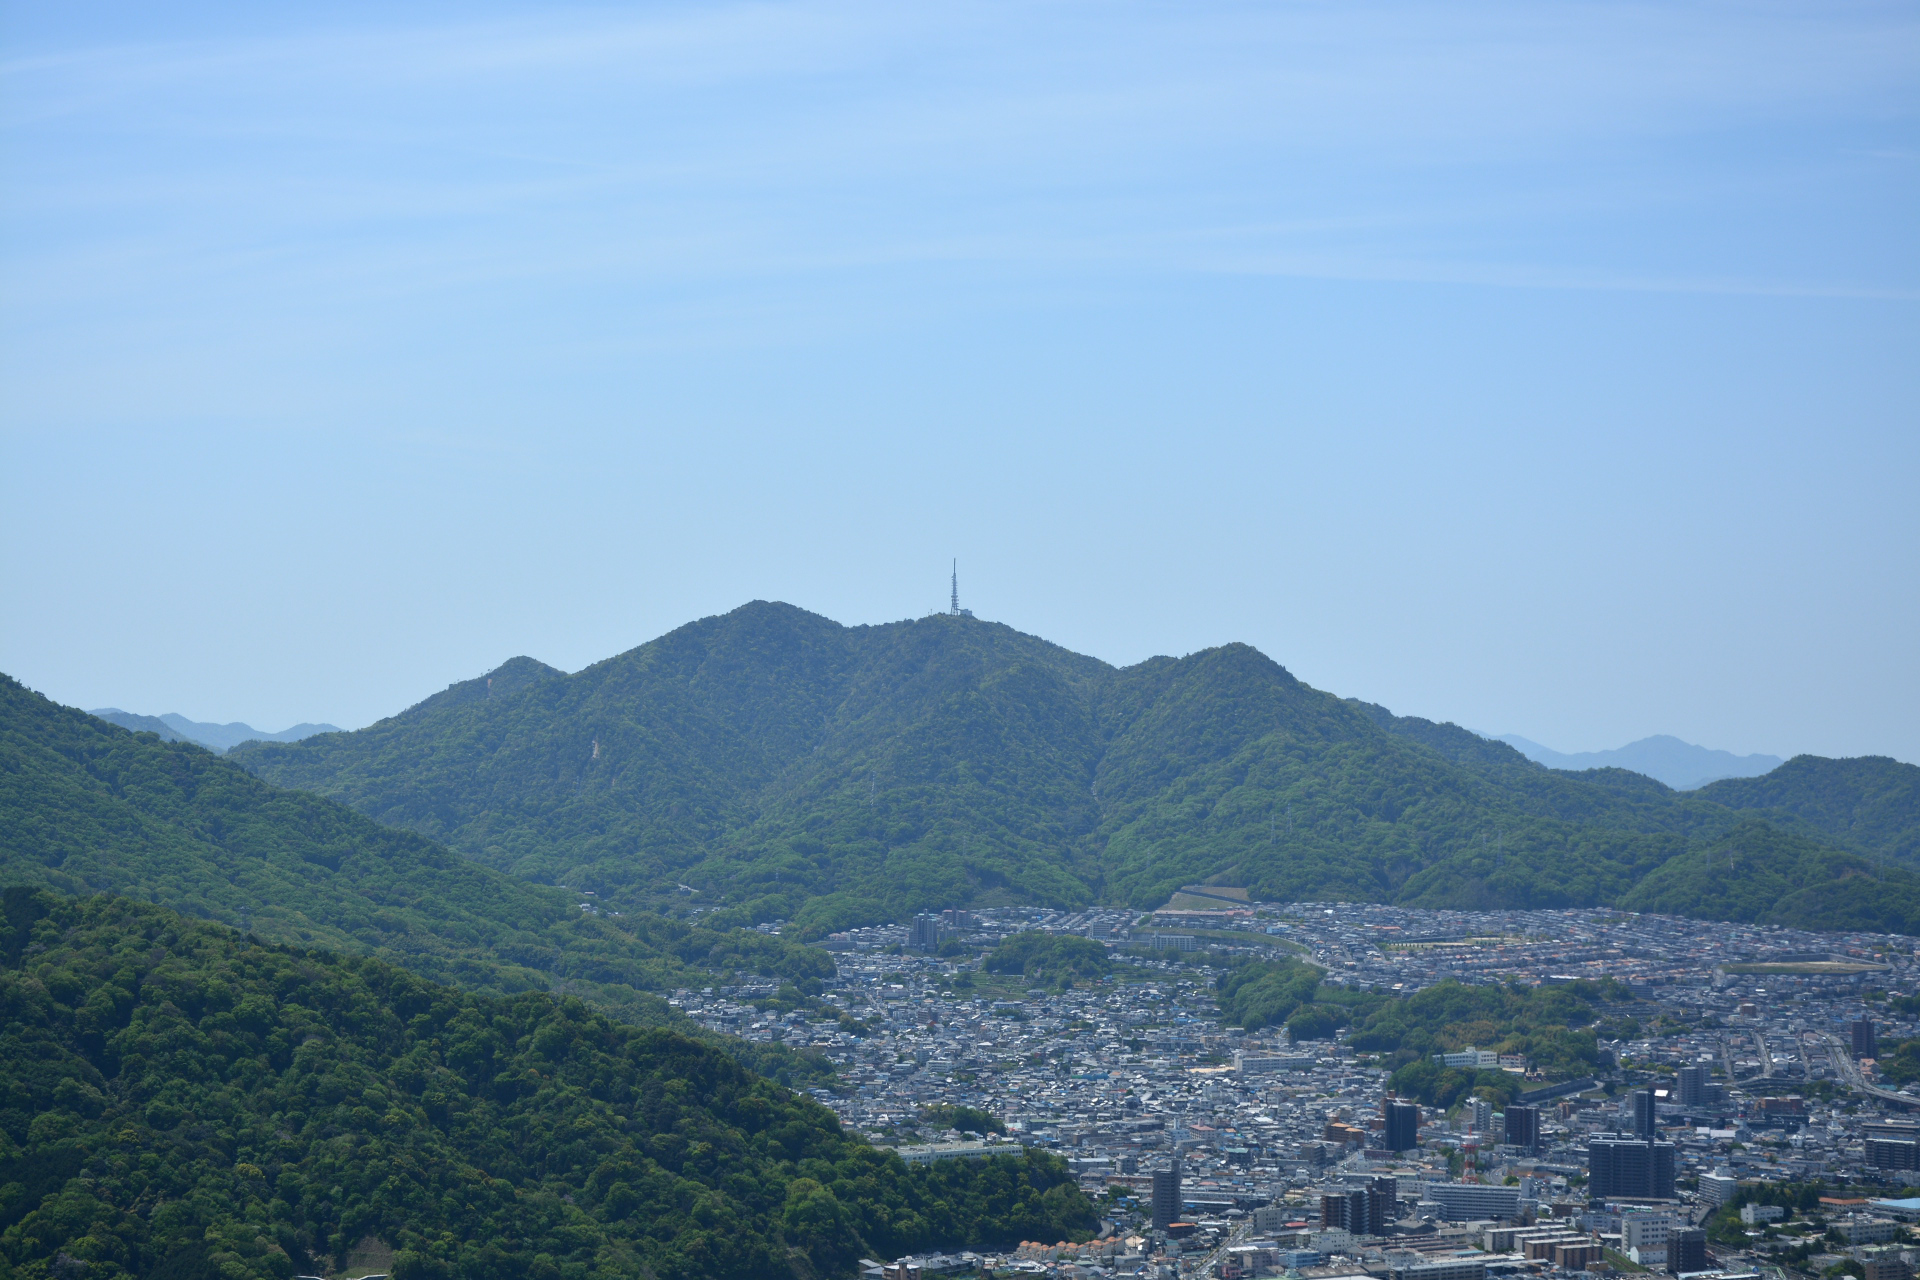
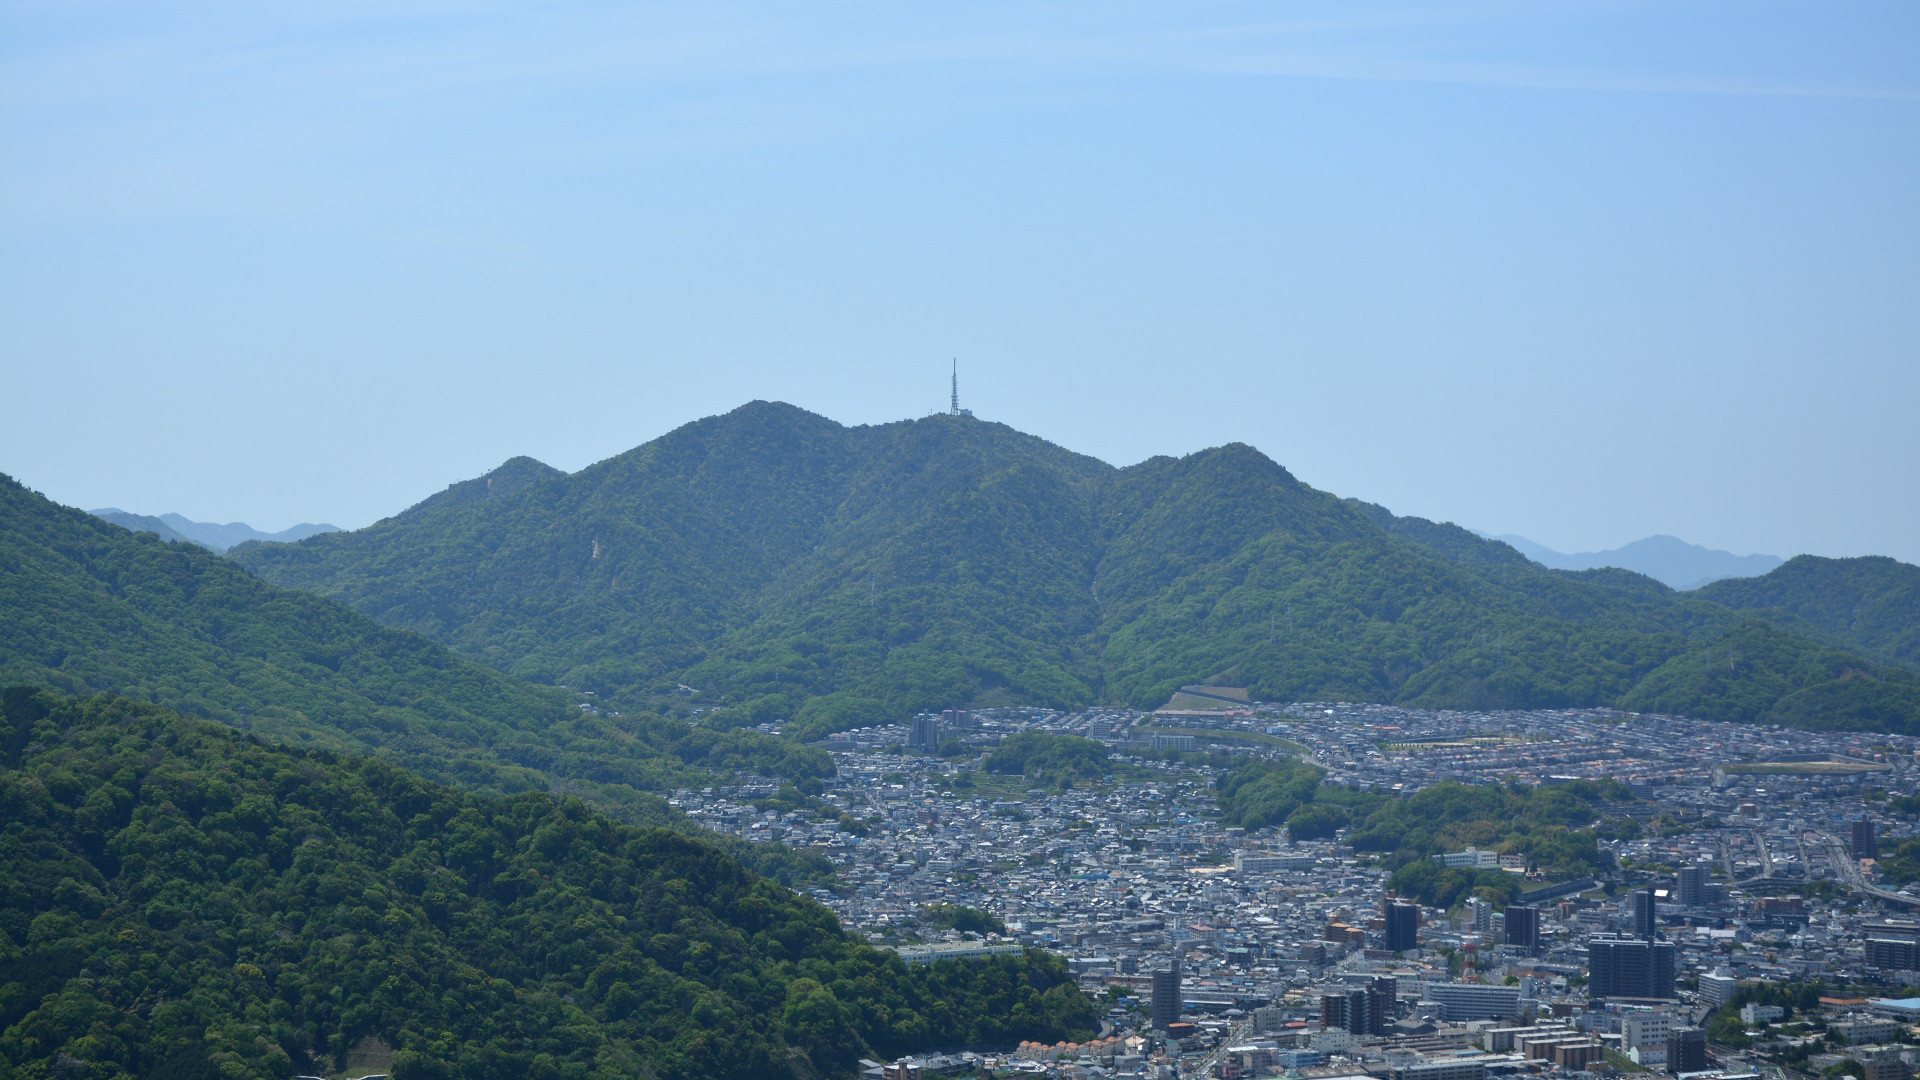
Draft

Changed region(s): [[0.0, 0.3667, 1.0, 1.0], [0.0938, 0.0, 0.1875, 0.0306], [0.0, 0.0, 0.0625, 0.0306]]

diff --git a/docs/assets/style.css b/docs/assets/style.css
@@ -96,6 +96,7 @@ figure {
 
 figure img {
 	max-width: 100%;
+	max-height: 400px;
 	height: auto;
 }
 

diff --git a/docs/index.md b/docs/index.md
@@ -5,7 +5,7 @@ title: 日浦山とは
 
 ## 日浦山とは
 
-日浦山は、広島県安芸郡海田町にある、標高345mの山だ。山頂からは、海田や広島市の町並みや広島湾が一望できる。登山道はバリエーション豊かで、東西南北、いろんな方向から登ることができる。広島県内では、広島南アルプスや牛田山に次いで登山者が多い(気がする)。
+日浦山は、広島県安芸郡海田町にある、標高345mの山だ。山頂からは、海田や広島市の町並みや広島湾が一望できる。登山道はバラエティにとみ、360度いろんな方向から登ることができる。広島県内では、広島南アルプスや牛田山に次いで登山者が多い(気がする)。
 
 <figure>
   <img src="img/01_01.jpg" alt="写真">
@@ -27,7 +27,7 @@ title: 日浦山とは
 
 山頂は広く、数十人程度なら楽に収容できる。ベンチや岩が多いので、腰掛けてゆっくり過ごせるだろう(クマバチの多い夏場以外は)。
 
-眺望も良い。海田町や安芸区の町はもちろん、瀬野方面に連なる山並み、安芸アルプスや絵下山、広島湾に浮かぶ島々(江田島、似島、宮島など)、黄金山や広島市中心部などを楽しむことができる。
+眺望も良い。海田町や安芸区の町はもちろん、瀬野方面に連なる山並み、安芸アルプスや絵下山、広島湾に浮かぶ島々(江田島、似島、宮島など)、黄金山や広島市のビル群などを楽しむことができる。
 
 <figure>
   <img src="img/03_01.jpg" alt="写真">
@@ -61,7 +61,7 @@ title: 日浦山とは
 
 **Cルート**は無いのか? いや、ある。Cルートは、Dルートと並走する尾根道だが、少々荒れた箇所があり、Yamapやヤマレコではルート認定されてない。しかし全然歩ける。
 
-また、名前付きのルートがもう一つある。**影コース**だ。影ルートではない。「影」というのは、昔の地名だろう。でも登山道の雰囲気も、なんとなく影っぽい。
+また、名前付きのルートがもう一つある。**影コース**だ。影ルートではない。「影」というのは、昔の地名に由来するようだ。登山道の雰囲気も、なんとなく影っぽい。
 
 これら以外に、公式な名前を持たないルートがいくつかある。北側(為角地区)に2本、南側(成本地区)にも2本。支流も合わせれば、もっとあるだろう。
 
@@ -86,18 +86,39 @@ title: 日浦山とは
 
 ### 地獄岩
 
-### Aルートのスポット
+標高250m付近、Aルートから少し南へ逸れた位置にある奇岩。南斜面の岩稜帯の最上部にあたる。下は絶壁なので高度感があり、眺望も良い。
 
-- ひまわり観音
-- 鬼の洗濯岩
-- 切株の広場
-- 松風の路
-- 岩登りの路
-- 地獄岩展望ベンチ
+<figure>
+  <img src="img/04_01.jpg" alt="写真">
+  <figcaption>2022-12-08 地獄岩</figcaption>
+</figure>
+
+<figure>
+  <img src="img/04_02.jpg" alt="写真">
+  <figcaption>2026-02-23 足元注意</figcaption>
+</figure>
+
+### 455mベンチ
+
+Bルート上、山頂まで455m地点にある展望ベンチ。
+
+<figure>
+  <img src="img/12_01.jpg" alt="写真">
+  <figcaption>2023-10-19 (山頂まで)455mの癒やしのベンチ</figcaption>
+</figure>
 
 ### 258mピーク
 
-### 455mベンチ
+影コース上の小ピーク。標高258m。東側が開けており、鉾取山や坂山を望む。
+
+<figure>
+  <img src="img/15_01.jpg" alt="写真">
+  <figcaption>2022-10-08 258mピークのベンチ</figcaption>
+</figure>
+
+### 心臓破りの階段
+
+東側から山頂にアプローチする登山者は、漏れなく通ることになる、急登階段。正確な段数は知らないが、100段くらいある(数えようと思うが、いつも忘れる)。
 
 ### 最強鉄塔
 
@@ -105,9 +126,25 @@ title: 日浦山とは
 
 ### 岩稜帯・チムニー
 
+南側から日浦山を見ると、そそり立つような岩稜帯が目を引く。チムニーと呼んだりするらしい。ここを登るルートもあるようだ。登りきったところに地獄岩がある。
+
+<figure>
+  <img src="img/15_02.jpg" alt="写真">
+  <figcaption>2026-02-23 岩稜帯</figcaption>
+</figure>
+
 ### 新四国八十八ヶ所霊場
 
 ### 唯一のテーブル
+
+日浦山は、たくさんのベンチが設置された優しい山だが、テーブルは一つしかない。さて、どこでしょう?
+
+<figure>
+  <img src="img/11_01.jpg" alt="写真">
+  <figcaption>2024-12-28 The only table</figcaption>
+</figure>
+
+※Dルートにもあった気がする(要確認)。
 
 ## 周辺
 
@@ -119,6 +156,7 @@ title: 日浦山とは
 
 ### 散策する
 
+- 中国自然歩道
 - 瀬野川河川敷
 - 観音免公園
 
